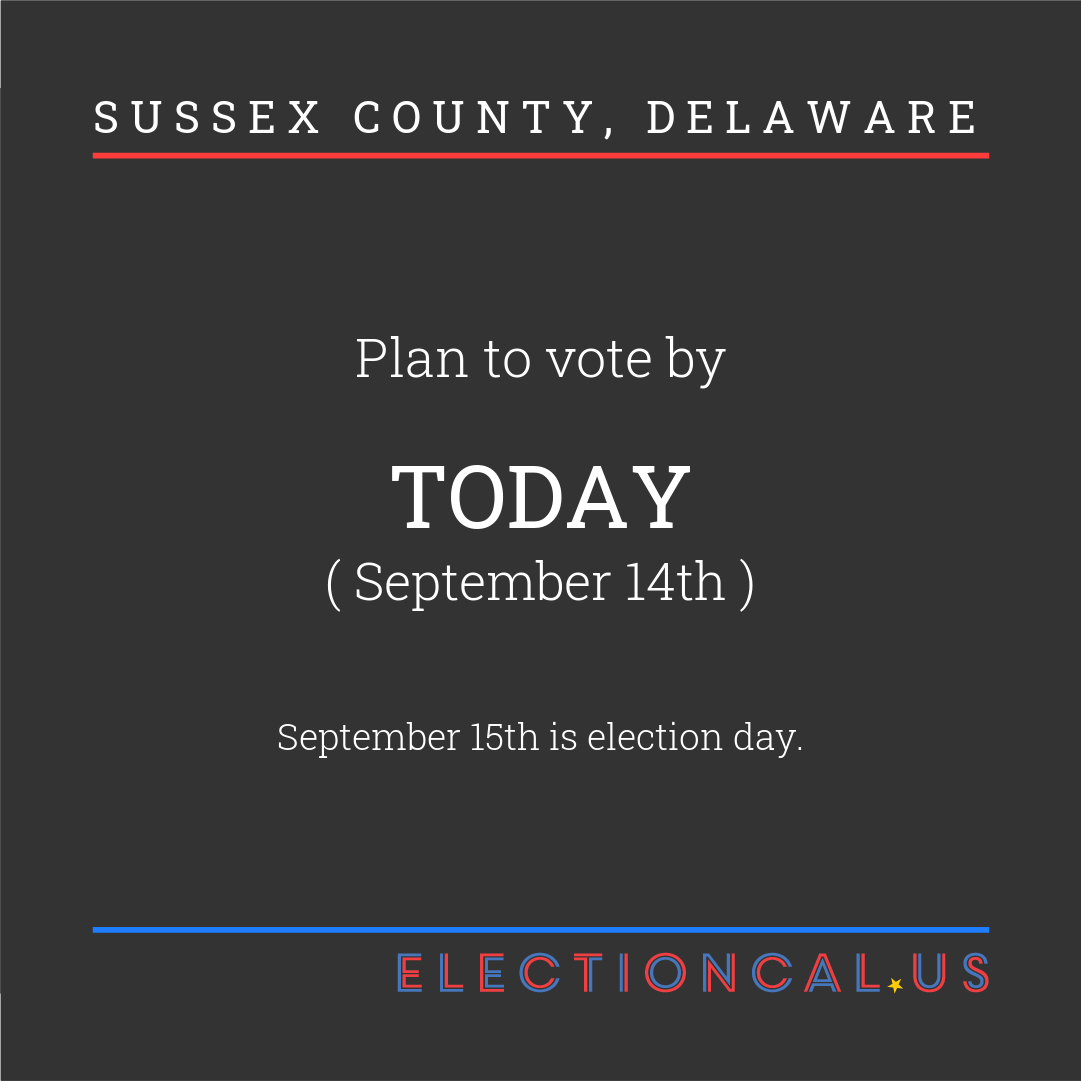
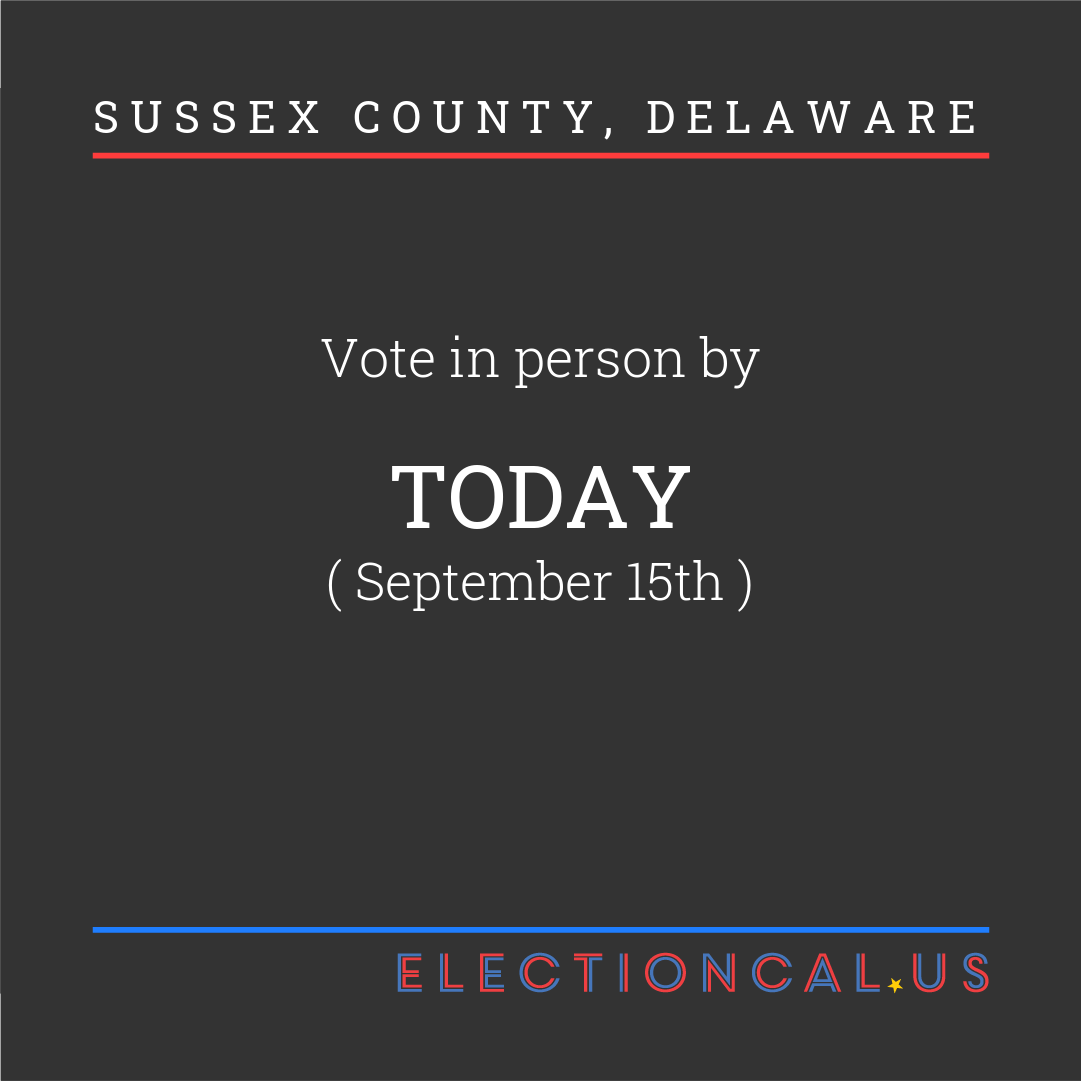
deploy: e3d045e0d992fcbe17e1e23dd607887b0fa743d8

diff --git a/en/delaware/new_castle/index.html b/en/delaware/new_castle/index.html
@@ -11,20 +11,20 @@
 
     
     
-    <meta property="og:title" content="New Castle County, Delaware|Plan to vote by" />
+    <meta property="og:title" content="New Castle County, Delaware|Vote in person by" />
     <meta property="og:url" content="https://electioncal.us/en/delaware/new_castle/" />
     <meta property="og:type" content="website" />
-    <meta property="og:description" content="New Castle County, Delaware Plan to vote by Today (September 14th). September 15th is election day." />
+    <meta property="og:description" content="New Castle County, Delaware Vote in person by Today (September 15th). " />
     <meta property="og:image" content="https://electioncal.us/en/delaware/new_castle/twitter_card.png" />
     
     
     <meta name="twitter:card" content="summary_large_image">
     <meta name="twitter:site" content="@electioncal_us">
     <meta name="twitter:creator" content="@tannewt">
-    <meta name="twitter:title" content="New Castle County, Delaware | Plan to vote by">
-    <meta name="twitter:description" content="Today (September 14th). September 15th is election day.">
+    <meta name="twitter:title" content="New Castle County, Delaware | Vote in person by">
+    <meta name="twitter:description" content="Today (September 15th). ">
     <meta name="twitter:image" content="https://electioncal.us/en/delaware/new_castle/twitter_card.png?e3d045e0d992fcbe17e1e23dd607887b0fa743d8">
-    <meta name="twitter:image:alt" content="New Castle County, Delaware Plan to vote by Today (September 14th). September 15th is election day.">
+    <meta name="twitter:image:alt" content="New Castle County, Delaware Vote in person by Today (September 15th). ">
     
 </head>
 <body>
@@ -34,10 +34,10 @@
     
     <div id="reminder">
         <h3>New Castle County, Delaware</h3>
-        <h2>Plan to vote by</h2>
+        <h2>Vote in person by</h2>
         <h1>Today</h1>
-        <h2>(September 14th)</h2>
-        <h3>September 15th is election day.</h3>
+        <h2>(September 15th)</h2>
+        <h3></h3>
     </div>
     
     

diff --git a/en/delaware/sussex/index.html b/en/delaware/sussex/index.html
@@ -11,20 +11,20 @@
 
     
     
-    <meta property="og:title" content="Sussex County, Delaware|Plan to vote by" />
+    <meta property="og:title" content="Sussex County, Delaware|Vote in person by" />
     <meta property="og:url" content="https://electioncal.us/en/delaware/sussex/" />
     <meta property="og:type" content="website" />
-    <meta property="og:description" content="Sussex County, Delaware Plan to vote by Today (September 14th). September 15th is election day." />
+    <meta property="og:description" content="Sussex County, Delaware Vote in person by Today (September 15th). " />
     <meta property="og:image" content="https://electioncal.us/en/delaware/sussex/twitter_card.png" />
     
     
     <meta name="twitter:card" content="summary_large_image">
     <meta name="twitter:site" content="@electioncal_us">
     <meta name="twitter:creator" content="@tannewt">
-    <meta name="twitter:title" content="Sussex County, Delaware | Plan to vote by">
-    <meta name="twitter:description" content="Today (September 14th). September 15th is election day.">
+    <meta name="twitter:title" content="Sussex County, Delaware | Vote in person by">
+    <meta name="twitter:description" content="Today (September 15th). ">
     <meta name="twitter:image" content="https://electioncal.us/en/delaware/sussex/twitter_card.png?e3d045e0d992fcbe17e1e23dd607887b0fa743d8">
-    <meta name="twitter:image:alt" content="Sussex County, Delaware Plan to vote by Today (September 14th). September 15th is election day.">
+    <meta name="twitter:image:alt" content="Sussex County, Delaware Vote in person by Today (September 15th). ">
     
 </head>
 <body>
@@ -34,10 +34,10 @@
     
     <div id="reminder">
         <h3>Sussex County, Delaware</h3>
-        <h2>Plan to vote by</h2>
+        <h2>Vote in person by</h2>
         <h1>Today</h1>
-        <h2>(September 14th)</h2>
-        <h3>September 15th is election day.</h3>
+        <h2>(September 15th)</h2>
+        <h3></h3>
     </div>
     
     

diff --git a/en/delaware/kent/index.html b/en/delaware/kent/index.html
@@ -11,20 +11,20 @@
 
     
     
-    <meta property="og:title" content="Kent County, Delaware|Plan to vote by" />
+    <meta property="og:title" content="Kent County, Delaware|Vote in person by" />
     <meta property="og:url" content="https://electioncal.us/en/delaware/kent/" />
     <meta property="og:type" content="website" />
-    <meta property="og:description" content="Kent County, Delaware Plan to vote by Today (September 14th). September 15th is election day." />
+    <meta property="og:description" content="Kent County, Delaware Vote in person by Today (September 15th). " />
     <meta property="og:image" content="https://electioncal.us/en/delaware/kent/twitter_card.png" />
     
     
     <meta name="twitter:card" content="summary_large_image">
     <meta name="twitter:site" content="@electioncal_us">
     <meta name="twitter:creator" content="@tannewt">
-    <meta name="twitter:title" content="Kent County, Delaware | Plan to vote by">
-    <meta name="twitter:description" content="Today (September 14th). September 15th is election day.">
+    <meta name="twitter:title" content="Kent County, Delaware | Vote in person by">
+    <meta name="twitter:description" content="Today (September 15th). ">
     <meta name="twitter:image" content="https://electioncal.us/en/delaware/kent/twitter_card.png?e3d045e0d992fcbe17e1e23dd607887b0fa743d8">
-    <meta name="twitter:image:alt" content="Kent County, Delaware Plan to vote by Today (September 14th). September 15th is election day.">
+    <meta name="twitter:image:alt" content="Kent County, Delaware Vote in person by Today (September 15th). ">
     
 </head>
 <body>
@@ -34,10 +34,10 @@
     
     <div id="reminder">
         <h3>Kent County, Delaware</h3>
-        <h2>Plan to vote by</h2>
+        <h2>Vote in person by</h2>
         <h1>Today</h1>
-        <h2>(September 14th)</h2>
-        <h3>September 15th is election day.</h3>
+        <h2>(September 15th)</h2>
+        <h3></h3>
     </div>
     
     

diff --git a/en/index.html b/en/index.html
@@ -17,20 +17,20 @@
   <link href="/static/state-county-map.css" rel="stylesheet" type="text/css">
 
     
-    <meta property="og:title" content="Delaware|Plan to vote by" />
+    <meta property="og:title" content="Delaware|Vote in person by" />
     <meta property="og:url" content="https://electioncal.us/en/" />
     <meta property="og:type" content="website" />
-    <meta property="og:description" content="Delaware Plan to vote by Today (September 14th). September 15th is election day." />
+    <meta property="og:description" content="Delaware Vote in person by Today (September 15th). " />
     <meta property="og:image" content="https://electioncal.us/en/twitter_card.png" />
     
     
     <meta name="twitter:card" content="summary_large_image">
     <meta name="twitter:site" content="@electioncal_us">
     <meta name="twitter:creator" content="@tannewt">
-    <meta name="twitter:title" content="Delaware | Plan to vote by">
-    <meta name="twitter:description" content="Today (September 14th). September 15th is election day.">
+    <meta name="twitter:title" content="Delaware | Vote in person by">
+    <meta name="twitter:description" content="Today (September 15th). ">
     <meta name="twitter:image" content="https://electioncal.us/en/twitter_card.png?e3d045e0d992fcbe17e1e23dd607887b0fa743d8">
-    <meta name="twitter:image:alt" content="Delaware Plan to vote by Today (September 14th). September 15th is election day.">
+    <meta name="twitter:image:alt" content="Delaware Vote in person by Today (September 15th). ">
     
 </head>
 <body>
@@ -40,10 +40,10 @@
     
     <div id="reminder">
         <h3>Delaware</h3>
-        <h2>Plan to vote by</h2>
+        <h2>Vote in person by</h2>
         <h1>Today</h1>
-        <h2>(September 14th)</h2>
-        <h3>September 15th is election day.</h3>
+        <h2>(September 15th)</h2>
+        <h3></h3>
     </div>
     
     

diff --git a/index.html b/index.html
@@ -17,20 +17,20 @@
   <link href="/static/state-county-map.css" rel="stylesheet" type="text/css">
 
     
-    <meta property="og:title" content="Delaware|Plan to vote by" />
+    <meta property="og:title" content="Delaware|Vote in person by" />
     <meta property="og:url" content="https://electioncal.us/en/" />
     <meta property="og:type" content="website" />
-    <meta property="og:description" content="Delaware Plan to vote by Today (September 14th). September 15th is election day." />
+    <meta property="og:description" content="Delaware Vote in person by Today (September 15th). " />
     <meta property="og:image" content="https://electioncal.us/en/twitter_card.png" />
     
     
     <meta name="twitter:card" content="summary_large_image">
     <meta name="twitter:site" content="@electioncal_us">
     <meta name="twitter:creator" content="@tannewt">
-    <meta name="twitter:title" content="Delaware | Plan to vote by">
-    <meta name="twitter:description" content="Today (September 14th). September 15th is election day.">
+    <meta name="twitter:title" content="Delaware | Vote in person by">
+    <meta name="twitter:description" content="Today (September 15th). ">
     <meta name="twitter:image" content="https://electioncal.us/en/twitter_card.png?e3d045e0d992fcbe17e1e23dd607887b0fa743d8">
-    <meta name="twitter:image:alt" content="Delaware Plan to vote by Today (September 14th). September 15th is election day.">
+    <meta name="twitter:image:alt" content="Delaware Vote in person by Today (September 15th). ">
     
 </head>
 <body>
@@ -40,10 +40,10 @@
     
     <div id="reminder">
         <h3>Delaware</h3>
-        <h2>Plan to vote by</h2>
+        <h2>Vote in person by</h2>
         <h1>Today</h1>
-        <h2>(September 14th)</h2>
-        <h3>September 15th is election day.</h3>
+        <h2>(September 15th)</h2>
+        <h3></h3>
     </div>
     
     

diff --git a/en/delaware/index.html b/en/delaware/index.html
@@ -11,20 +11,20 @@
 
     
     
-    <meta property="og:title" content="Delaware|Plan to vote by" />
+    <meta property="og:title" content="Delaware|Vote in person by" />
     <meta property="og:url" content="https://electioncal.us/en/delaware/" />
     <meta property="og:type" content="website" />
-    <meta property="og:description" content="Delaware Plan to vote by Today (September 14th). September 15th is election day." />
+    <meta property="og:description" content="Delaware Vote in person by Today (September 15th). " />
     <meta property="og:image" content="https://electioncal.us/en/delaware/twitter_card.png" />
     
     
     <meta name="twitter:card" content="summary_large_image">
     <meta name="twitter:site" content="@electioncal_us">
     <meta name="twitter:creator" content="@tannewt">
-    <meta name="twitter:title" content="Delaware | Plan to vote by">
-    <meta name="twitter:description" content="Today (September 14th). September 15th is election day.">
+    <meta name="twitter:title" content="Delaware | Vote in person by">
+    <meta name="twitter:description" content="Today (September 15th). ">
     <meta name="twitter:image" content="https://electioncal.us/en/delaware/twitter_card.png?e3d045e0d992fcbe17e1e23dd607887b0fa743d8">
-    <meta name="twitter:image:alt" content="Delaware Plan to vote by Today (September 14th). September 15th is election day.">
+    <meta name="twitter:image:alt" content="Delaware Vote in person by Today (September 15th). ">
     
 </head>
 <body>
@@ -34,10 +34,10 @@
     
     <div id="reminder">
         <h3>Delaware</h3>
-        <h2>Plan to vote by</h2>
+        <h2>Vote in person by</h2>
         <h1>Today</h1>
-        <h2>(September 14th)</h2>
-        <h3>September 15th is election day.</h3>
+        <h2>(September 15th)</h2>
+        <h3></h3>
     </div>
     
     

diff --git a/en/delaware/debug_instagram.html b/en/delaware/debug_instagram.html
@@ -11,10 +11,10 @@
 
     
     
-    <meta property="og:title" content="Delaware|Plan to vote by" />
+    <meta property="og:title" content="Delaware|Vote in person by" />
     <meta property="og:url" content="https://electioncal.us/en/delaware/" />
     <meta property="og:type" content="website" />
-    <meta property="og:description" content="Delaware Plan to vote by Today (September 14th). September 15th is election day." />
+    <meta property="og:description" content="Delaware Vote in person by Today (September 15th). " />
     <meta property="og:image" content="https://electioncal.us/en/delaware/twitter_card.png" />
     
     

diff --git a/en/delaware/debug_twitter.html b/en/delaware/debug_twitter.html
@@ -11,10 +11,10 @@
 
     
     
-    <meta property="og:title" content="Delaware|Plan to vote by" />
+    <meta property="og:title" content="Delaware|Vote in person by" />
     <meta property="og:url" content="https://electioncal.us/en/delaware/" />
     <meta property="og:type" content="website" />
-    <meta property="og:description" content="Delaware Plan to vote by Today (September 14th). September 15th is election day." />
+    <meta property="og:description" content="Delaware Vote in person by Today (September 15th). " />
     <meta property="og:image" content="https://electioncal.us/en/delaware/twitter_card.png" />
     
     

diff --git a/en/debug_instagram.html b/en/debug_instagram.html
@@ -11,10 +11,10 @@
 
     
     
-    <meta property="og:title" content="Delaware|Plan to vote by" />
+    <meta property="og:title" content="Delaware|Vote in person by" />
     <meta property="og:url" content="https://electioncal.us/en/" />
     <meta property="og:type" content="website" />
-    <meta property="og:description" content="Delaware Plan to vote by Today (September 14th). September 15th is election day." />
+    <meta property="og:description" content="Delaware Vote in person by Today (September 15th). " />
     <meta property="og:image" content="https://electioncal.us/en/twitter_card.png" />
     
     

diff --git a/en/debug_twitter.html b/en/debug_twitter.html
@@ -11,10 +11,10 @@
 
     
     
-    <meta property="og:title" content="Delaware|Plan to vote by" />
+    <meta property="og:title" content="Delaware|Vote in person by" />
     <meta property="og:url" content="https://electioncal.us/en/" />
     <meta property="og:type" content="website" />
-    <meta property="og:description" content="Delaware Plan to vote by Today (September 14th). September 15th is election day." />
+    <meta property="og:description" content="Delaware Vote in person by Today (September 15th). " />
     <meta property="og:image" content="https://electioncal.us/en/twitter_card.png" />
     
     

diff --git a/en/stats/index.html b/en/stats/index.html
@@ -38,7 +38,7 @@
         <td>2</td>
         <td>2020-09-15</td>
         <td>5</td>
-        <td>8</td>
+        <td>7</td>
       </tr>
     
       <tr>
